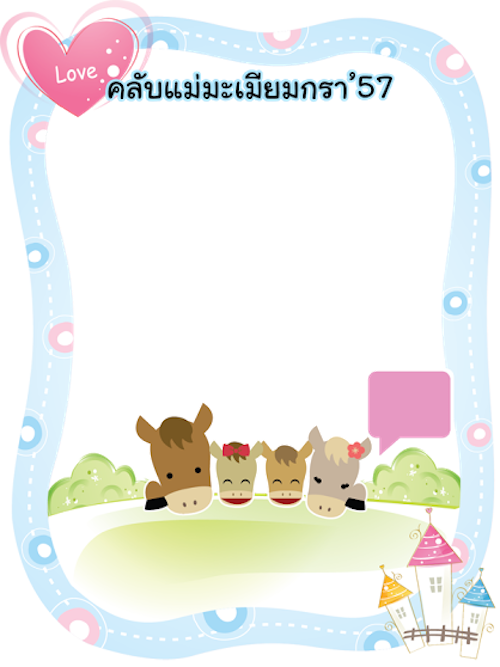
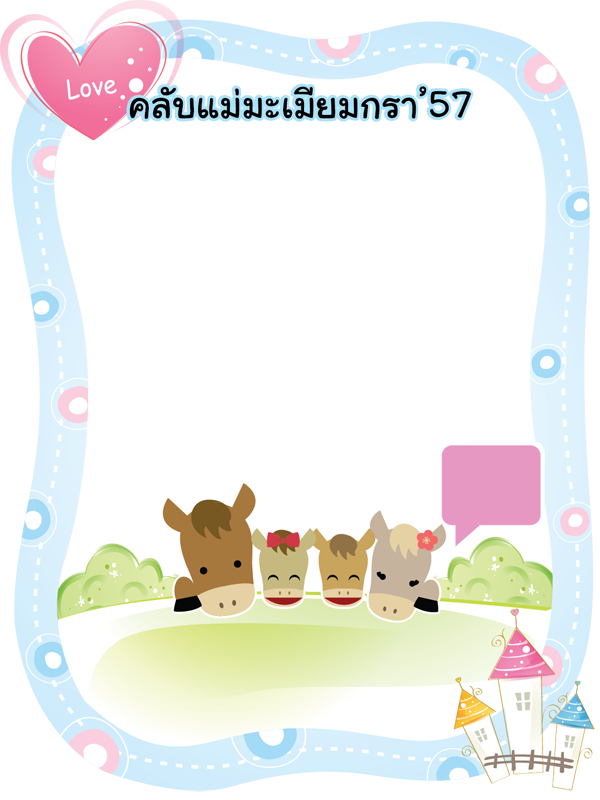
easy crop for 600x800 and set resolution to 72 dpi

diff --git a/mae_mamia_club/templates/member_add.html b/mae_mamia_club/templates/member_add.html
@@ -9,22 +9,27 @@
 <div class="container">
     <div class="row">
         <div class="col-md-12 text-center">
-            <h1>New Member Information</h1>
+            <h1>ข้อมูลสมาชิกใหม่ คลับแม่มะเมียมกรา 57</h1>
+            <h5>ตรวจสอบข้อมูลก่อนสมัคร หากผิดพลาดติดต่อแอดมินจ้า</h5>
         </div>
     </div>
     <div class="row">
-        <div class="col-md-6">
+        <div class="col-md-9">
             <div class="row">
                 <div class="col-md-12 text-center">
                     {% if not member_id %}
-                        Image will be shown here.
+                        <br><br><br><br>
+                        ***ปรับขนาดรูปก่อนอัพโหลด ดังนี้***<br><br>
+                        <u>ใช้รูปแนวตั้งเท่านั้น</u><br>
+                        ปรับรูปขนาด 600x800 px และ resolution 72 px<br>
                     {% else %}
-                        <img src="/members/?id={{ member_id }}" width="500">
+                        <img src="/members/?id={{ member_id }}">
                     {% endif %}
                 </div>
             </div>
         </div>
-        <div class="col-md-6">
+        <p>
+        <div class="col-md-3">
             <form method="post" enctype="multipart/form-data">
                 {% csrf_token %}
                 <div class="row">
@@ -129,6 +134,7 @@
                     </div>
                 </div>
             </form>
+            <h5>หากสมัครสมาชิกแล้ว เปลี่ยนรูปได้ด้วยตัวเอง ที่ /members/idของม้าน้อย</h5>
         </div>
     </div>
 </div>

diff --git a/mae_mamia_club/members/views.py b/mae_mamia_club/members/views.py
@@ -56,6 +56,9 @@ class MemberView(TemplateView):
         else:
             foreground = Image.open('boy.png')
         background = Image.open(member.image)
+        #crop (left, top, right, bottom)
+        background = background.crop((0, 0, 600, 800))
+        background.info["dpi"] = (72, 72)
         background.paste(foreground, (0, 0), foreground)
 
         # Name
@@ -63,9 +66,9 @@ class MemberView(TemplateView):
         draw = ImageDraw.Draw(background)
         red = (0, 0, 0)
         #black = (0, 0, 0)
-        text_pos = (140, 510)
-        text = ' ' + prefix_name + ':    ' + member.nickname
-        font = ImageFont.truetype('layijimahaniyom1.ttf', 27)
+        text_pos = (140, 610)
+        text = ' ' + prefix_name + ':    ' + member.nickname + ' '
+        font = ImageFont.truetype('layijimahaniyom1.ttf', 35)
         draw.text(text_pos, text, fill=red, font=font)
         del draw
 
@@ -78,9 +81,9 @@ class MemberView(TemplateView):
         draw = ImageDraw.Draw(background)
         red = (0, 0, 0)
         #black = (0, 0, 0)
-        text_pos = (138, 532)
+        text_pos = (137, 640)
         text = born_text + ':   ' + ' ' + day + ' ' + month + ' ' + year
-        font = ImageFont.truetype('layijimahaniyom1.ttf', 27)
+        font = ImageFont.truetype('layijimahaniyom1.ttf', 35)
         draw.text(text_pos, text, fill=red, font=font)
         del draw
 
@@ -92,9 +95,9 @@ class MemberView(TemplateView):
         draw = ImageDraw.Draw(background)
         red = (0, 0, 0)
         #black = (0, 0, 0)
-        text_pos = (126, 557)
+        text_pos = (122, 670)
         text = prefix_parent + ':    ' + prefix_dad_name + member.dad_name + ' ' + prefix_mom_name + member.mom_name + " "
-        font = ImageFont.truetype('layijimahaniyom1.ttf', 27)
+        font = ImageFont.truetype('layijimahaniyom1.ttf', 35)
         draw.text(text_pos, text, fill=red, font=font)
         del draw
 
@@ -104,21 +107,22 @@ class MemberView(TemplateView):
         draw = ImageDraw.Draw(background)
         white = (255, 255, 255)
         #black = (0, 0, 0)
-        text_pos = (375, 380)
+        text_pos = (450, 460)
         #text = prefix_member_number + ' ' + str(member.id)
         text = '000' + str(member.id)
-        font = ImageFont.truetype('layijimahaniyom1.ttf', 40)
+        font = ImageFont.truetype('layijimahaniyom1.ttf', 50)
         draw.text(text_pos, text, fill=white, font=font)
         del draw
 
         # branch
         prefix_branch = Word.objects.get(id=19).text
+        prefix_province = Word.objects.get(id=15).text
         draw = ImageDraw.Draw(background)
         red = (0, 0, 0)
         #black = (0, 0, 0)
-        text_pos = (123, 580)
-        text = ' ' + prefix_branch + ':    ' + member.province
-        font = ImageFont.truetype('layijimahaniyom1.ttf', 27)
+        text_pos = (120, 700)
+        text = ' ' + prefix_branch + ':    ' + prefix_province + member.province + ' '
+        font = ImageFont.truetype('layijimahaniyom1.ttf', 35)
         draw.text(text_pos, text, fill=red, font=font)
         del draw
 

diff --git a/mae_mamia_club/members/utils.py b/mae_mamia_club/members/utils.py
@@ -16,7 +16,7 @@ def get_months():
 
 def get_years():
     years = [('', '')]
-    for year in range(2009, 2055):
+    for year in range(2013, 2016):
         years.append((str(year), str(year)))
 
     return tuple(years)
